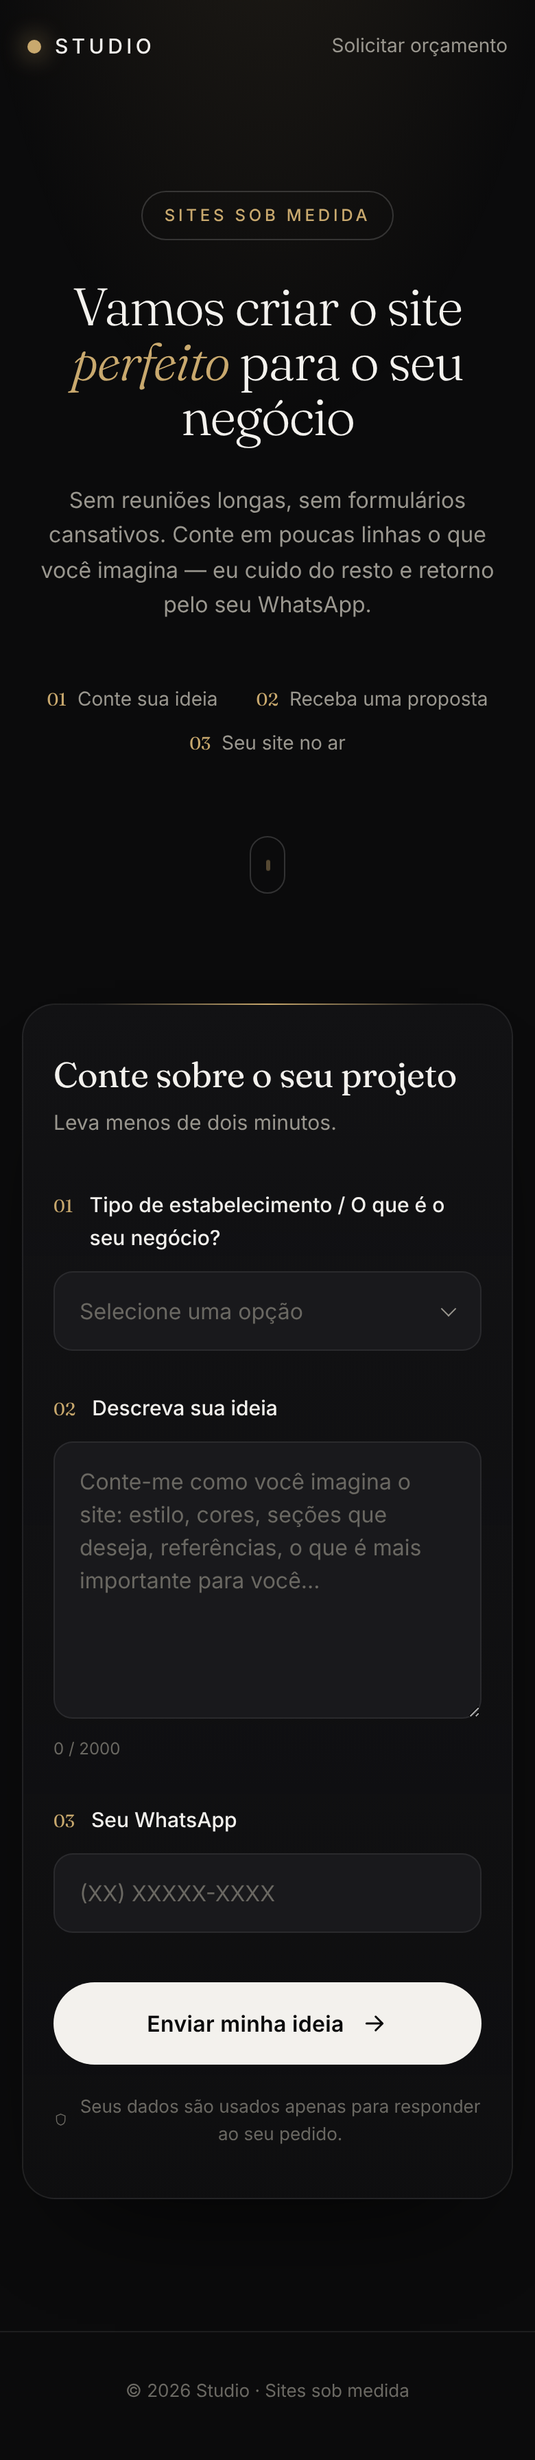
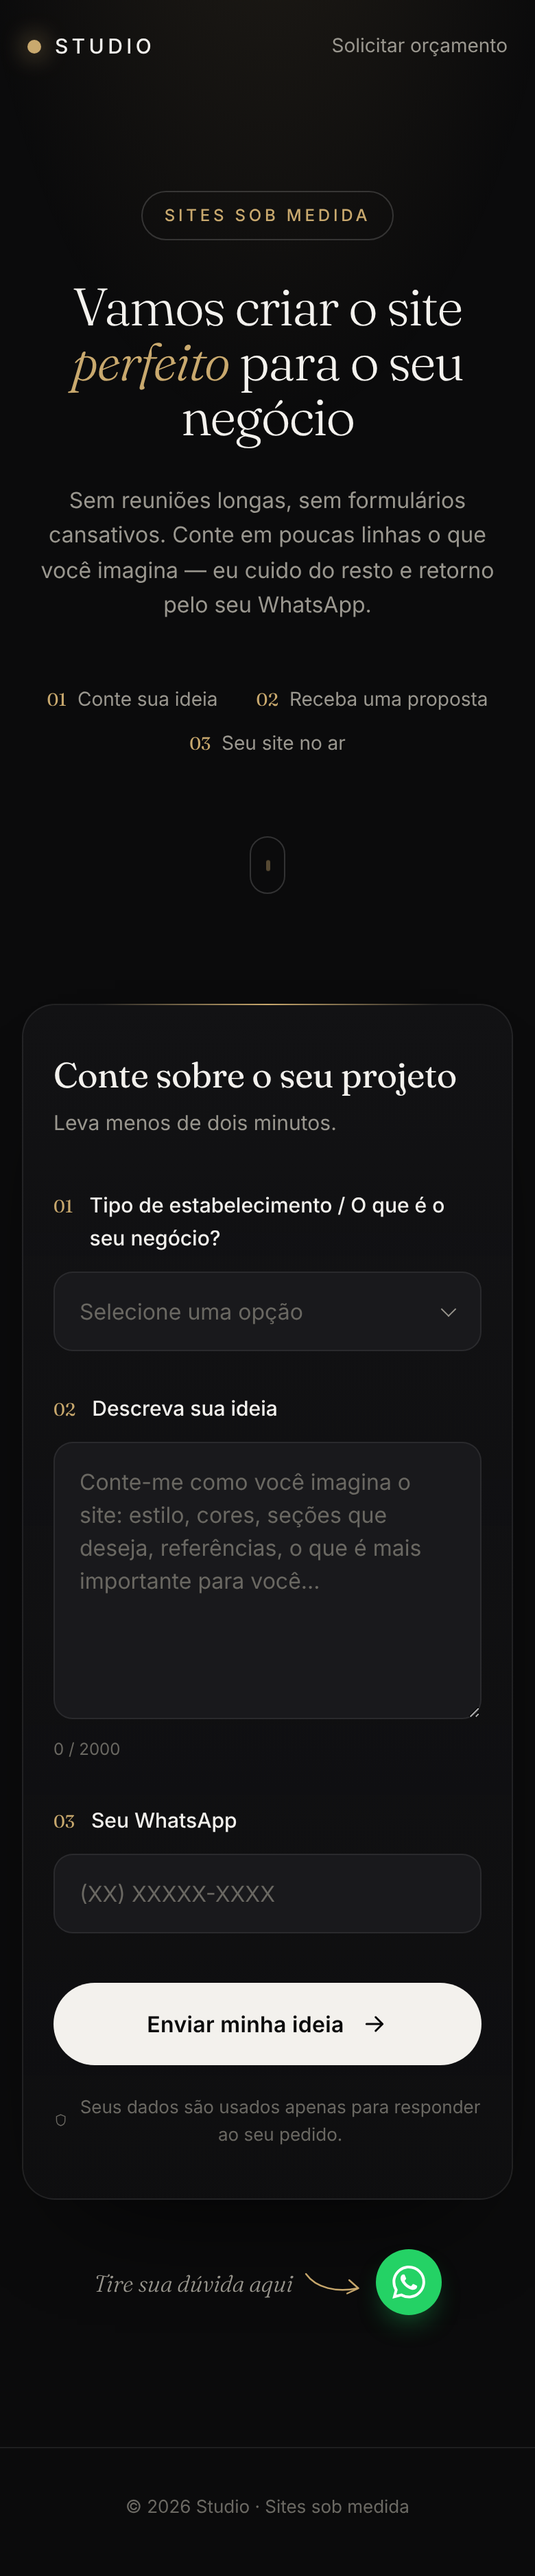
Adiciona botão "Tire sua dúvida aqui" com atalho para o WhatsApp
Claude-Session: https://claude.ai/code/session_0116UvJFRkvEnM8AnAFJzZmN

diff --git a/pedidos/index.html b/pedidos/index.html
@@ -159,6 +159,18 @@
           <button class="btn btn--ghost" type="button" id="btn-novo">Enviar outra ideia</button>
         </div>
       </div>
+      <!-- Atalho para dúvidas: abre uma conversa no WhatsApp -->
+      <div class="help reveal">
+        <span class="help__text">Tire sua dúvida aqui</span>
+        <svg class="help__arrow" viewBox="0 0 64 32" aria-hidden="true">
+          <path d="M4 8c10 14 30 18 50 14"/>
+          <path d="M46 14l9 8-11 5"/>
+        </svg>
+        <a class="help__btn" id="btn-duvida" href="https://wa.me/5569992691749"
+           target="_blank" rel="noopener" aria-label="Tirar dúvida pelo WhatsApp">
+          <svg viewBox="0 0 24 24" width="24" height="24" aria-hidden="true"><path fill="currentColor" d="M17.472 14.382c-.297-.149-1.758-.867-2.03-.967-.273-.099-.471-.148-.67.15-.197.297-.767.966-.94 1.164-.173.199-.347.223-.644.075-.297-.15-1.255-.463-2.39-1.475-.883-.788-1.48-1.761-1.653-2.059-.173-.297-.018-.458.13-.606.134-.133.298-.347.446-.52.149-.174.198-.298.298-.497.099-.198.05-.371-.025-.52-.075-.149-.669-1.612-.916-2.207-.242-.579-.487-.5-.669-.51-.173-.008-.371-.01-.57-.01-.198 0-.52.074-.792.372-.272.297-1.04 1.016-1.04 2.479 0 1.462 1.065 2.875 1.213 3.074.149.198 2.096 3.2 5.077 4.487.709.306 1.262.489 1.694.625.712.227 1.36.195 1.871.118.571-.085 1.758-.719 2.006-1.413.248-.694.248-1.289.173-1.413-.074-.124-.272-.198-.57-.347m-5.421 7.403h-.004a9.87 9.87 0 01-5.031-1.378l-.361-.214-3.741.982.998-3.648-.235-.374a9.86 9.86 0 01-1.51-5.26c.001-5.45 4.436-9.884 9.888-9.884 2.64 0 5.122 1.03 6.988 2.898a9.825 9.825 0 012.893 6.994c-.003 5.45-4.437 9.884-9.885 9.884m8.413-18.297A11.815 11.815 0 0012.05 0C5.495 0 .16 5.335.157 11.892c0 2.096.547 4.142 1.588 5.945L.057 24l6.305-1.654a11.882 11.882 0 005.683 1.448h.005c6.554 0 11.89-5.335 11.893-11.893a11.821 11.821 0 00-3.48-8.413z"/></svg>
+        </a>
+      </div>
     </section>
   </main>
 

diff --git a/pedidos/css/style.css b/pedidos/css/style.css
@@ -416,6 +416,50 @@ main, .topbar, .footer { position: relative; z-index: 1; }
 }
 @keyframes draw { to { stroke-dashoffset: 0; } }
 
+/* --------------------- Atalho de dúvidas (WhatsApp) --------------------- */
+.help {
+  display: flex;
+  align-items: center;
+  justify-content: center;
+  gap: 6px;
+  margin-top: 36px;
+}
+.help__text {
+  color: var(--muted);
+  font: italic 300 17px var(--serif);
+}
+.help__arrow {
+  width: 48px;
+  height: 24px;
+  fill: none;
+  stroke: var(--gold);
+  stroke-width: 1.6;
+  stroke-linecap: round;
+  stroke-linejoin: round;
+  animation: nudge 2.4s var(--ease) infinite;
+}
+@keyframes nudge {
+  0%, 100% { transform: translateX(0); }
+  50%      { transform: translateX(5px); }
+}
+.help__btn {
+  display: inline-flex;
+  align-items: center;
+  justify-content: center;
+  width: 48px;
+  height: 48px;
+  border-radius: 50%;
+  background: #25d366;
+  color: #fff;
+  box-shadow: 0 10px 24px -10px rgba(37, 211, 102, 0.7);
+  transition: transform 0.35s var(--ease), box-shadow 0.35s var(--ease);
+}
+.help__btn:hover {
+  transform: translateY(-2px) scale(1.05);
+  box-shadow: 0 14px 30px -10px rgba(37, 211, 102, 0.85);
+}
+.help__btn:focus-visible { outline: 2px solid var(--gold); outline-offset: 4px; }
+
 /* ------------------------------ Rodapé ------------------------------ */
 .footer {
   padding: 32px 20px 40px;

diff --git a/pedidos/js/app.js b/pedidos/js/app.js
@@ -24,6 +24,11 @@
 
   document.getElementById("ano").textContent = new Date().getFullYear();
 
+  /* Botão "Tire sua dúvida aqui": abre uma conversa com o seu número */
+  document.getElementById("btn-duvida").href =
+    "https://wa.me/" + CONFIG.meuWhatsApp + "?text=" +
+    encodeURIComponent("Olá! Tenho uma dúvida sobre a criação de um site.");
+
   /* ---------------------------------------------------------------------
      Animações de entrada
      --------------------------------------------------------------------- */
